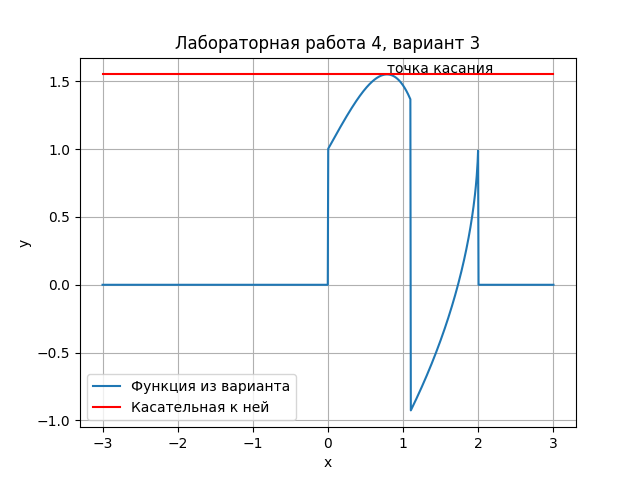
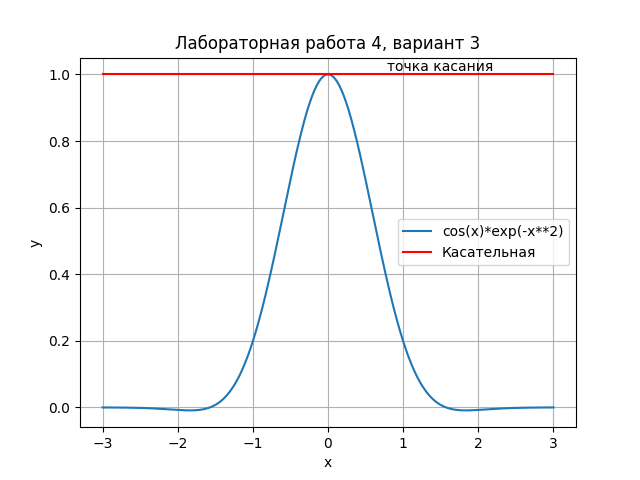
fix

diff --git a/lab5/4.py b/lab5/4.py
@@ -2,20 +2,16 @@ import matplotlib.pyplot as plt
 import numpy as np
 from math import *
 
-# задал функцию из варианта 3
+# задал верхнюю часть функции из варианта 3
 def f(x):
-    if x > 0 and x <= 1.1:
-        return cos(x)*exp(sqrt((-x)**2))
-    elif x >= 1 and x <= 2:
-        return log(x+1)-sqrt(4-(x**2))
-    return 0
+    return cos(x)*exp(-x**2)
 
 # создал список точек от -3 до 3 (1000 точек)
 x = np.linspace(-3, 3, 1000)
 # список точек функции из варианта
 y1 = [f(i) for i in x]
-# касательная по высшей точке функции из варианта
-y2 = [max(y1) for i in x]
+# касательная в точке 0
+y2 = [1 for i in x]
 
 # заголовок
 plt.title('Лабораторная работа 4, вариант 3')
@@ -25,8 +21,8 @@ plt.ylabel('y')
 # включение сетки
 plt.grid()
 # построение этих функций
-plt.plot(x, y1, label='Функция из варианта')
-plt.plot(x, y2, 'r', label='Касательная к ней')
+plt.plot(x, y1, label='cos(x)*exp(-x**2)')
+plt.plot(x, y2, 'r', label='Касательная')
 # аннотация
 plt.text(0.785, max(y1)+0.01, 'точка касания')
 # легенда

diff --git a/lab5/README.md b/lab5/README.md
@@ -8,31 +8,23 @@
 ![](screens/3.png)
 ## График функции из своего варианта (вариант 3)
 $$
-f(x) =
-  \begin{cases}
-    cos(x)e^{-x^2} \text{,}       & 0 \leq x \leq 1 \text{;} \\
-    ln(x+1)-\sqrt{4-x^2} \text{,} & 1 < x \leq 2 \text{.}
-  \end{cases}
+f(x) = cos(x)e^{-x^2}
 $$
 ```python
 import matplotlib.pyplot as plt
 import numpy as np
 from math import *
 
-# задал функцию из варианта 3
+# задал верхнюю часть функции из варианта 3
 def f(x):
-    if x > 0 and x <= 1.1:
-        return cos(x)*exp(sqrt((-x)**2))
-    elif x >= 1 and x <= 2:
-        return log(x+1)-sqrt(4-(x**2))
-    return 0
+    return cos(x)*exp(-x**2)
 
 # создал список точек от -3 до 3 (1000 точек)
 x = np.linspace(-3, 3, 1000)
 # список точек функции из варианта
 y1 = [f(i) for i in x]
-# касательная по высшей точке функции из варианта
-y2 = [max(y1) for i in x]
+# касательная в точке 0
+y2 = [1 for i in x]
 
 # заголовок
 plt.title('Лабораторная работа 4, вариант 3')
@@ -42,8 +34,8 @@ plt.ylabel('y')
 # включение сетки
 plt.grid()
 # построение этих функций
-plt.plot(x, y1, label='Функция из варианта')
-plt.plot(x, y2, 'r', label='Касательная к ней')
+plt.plot(x, y1, label='cos(x)*exp(-x**2)')
+plt.plot(x, y2, 'r', label='Касательная')
 # аннотация
 plt.text(0.785, max(y1)+0.01, 'точка касания')
 # легенда
